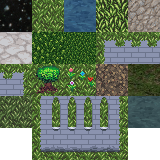
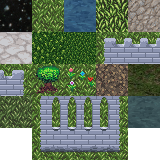
Slightly better wall thing

Changed region(s): [[0.25, 0.5938, 0.75, 0.9375], [0.625, 0.2188, 1.0, 0.4062], [0.0, 0.4062, 0.1562, 0.625]]

diff --git a/src/client/client.cpp b/src/client/client.cpp
@@ -111,11 +111,11 @@ void reset_menu_connecting(void)
     connectingDotIdxLastUpdatedAt = 0;
 }
 
-void update_camera(Camera2D &camera, Vector2 target, float frameDt)
+void update_camera(Camera2D &camera, Tilemap *map, Vector2 target, float frameDt)
 {
     camera.offset = {
-        floorf((float)GetRenderWidth()/2.0f),
-        floorf((float)GetRenderHeight()/2.0f)
+        floorf(GetRenderWidth()/2.0f),
+        floorf(GetRenderHeight()/2.0f)
     };
 
     if (!io.KeyDown(KEY_SPACE)) {
@@ -132,16 +132,32 @@ void update_camera(Camera2D &camera, Vector2 target, float frameDt)
 #endif
     }
 
+    if (map) {
+        Vector2 mapSize = { (float)map->width * TILE_W, map->height * (float)TILE_W };
+        camera.target.x = CLAMP(camera.target.x, camera.offset.x / camera.zoom, mapSize.x - camera.offset.x / camera.zoom);
+        camera.target.y = CLAMP(camera.target.y, camera.offset.y / camera.zoom, mapSize.y - camera.offset.y / camera.zoom);
+    }
+
     // Zoom based on mouse wheel
-    float wheel = GetMouseWheelMove();
+    static float zoomTarget = camera.zoom;
+    float wheel = io.MouseWheelMove();
     if (wheel != 0) {
         // Get the world point that is under the mouse
         Vector2 mouseWorldPos = GetScreenToWorld2D(GetMousePosition(), camera );
 
         // Zoom increment
-        const float zoomIncrement = 0.125f;
-        camera.zoom += (wheel * zoomIncrement * camera.zoom);
-        if (camera.zoom < zoomIncrement) camera.zoom = zoomIncrement;
+        const float zoomIncrement = 0.1f;
+        zoomTarget += (wheel * zoomIncrement * zoomTarget);
+        zoomTarget = MAX(zoomIncrement, zoomTarget);
+    }
+    if (fabsf(camera.zoom - zoomTarget) > 0.001f) {
+        const float halfLife = 8.0f;
+        float alpha = 1.0f - exp2f(-halfLife * frameDt);
+        camera.zoom = LERP(camera.zoom, zoomTarget, alpha);
+    }
+
+    if (io.MouseButtonPressed(MOUSE_BUTTON_MIDDLE)) {
+        zoomTarget = 2;
     }
 }
 
@@ -484,7 +500,7 @@ int main(int argc, char *argv[])
         histoInput.Push(histoEntry);
         histoDx.Push(histoEntry);
         histoEntry.value = client->frameDt * 1000.0f;
-        histoEntry.color = doNetTick ? GREEN : RAYWHITE;
+        histoEntry.color = doNetTick ? DARKPURPLE : RAYWHITE;
         histoFps.Push(histoEntry);
 
         if (client->yj_client->IsConnected()) {
@@ -493,7 +509,8 @@ int main(int argc, char *argv[])
                 // Update world
                 client->world->Update(*client);
                 // Update camera
-                update_camera(client->world->camera2d, localPlayer->position, client->frameDt);
+                update_camera(client->world->camera2d, client->world->LocalPlayerMap(),
+                    localPlayer->position, client->frameDt);
             }
         }
 

diff --git a/src/common/tilemap.cpp b/src/common/tilemap.cpp
@@ -618,14 +618,8 @@ void Tilemap::DrawTile(Tile tile, Vector2 position)
 {
     const Texture tex = rnTextureCatalog.GetTexture(textureId);
     const Rectangle texRect = TileDefRect(tile);
-    if (
-        fabsf(position.x - floorf(position.x)) > 0.1 ||
-        fabsf(position.y - floorf(position.y)) > 0.1)
-    {
-        printf("");
-    }
-    position.x = roundf(position.x);
-    position.y = roundf(position.y);
+    position.x = floorf(position.x);
+    position.y = floorf(position.y);
     DrawTextureRec(tex, texRect, position, WHITE);
 }
 void Tilemap::Draw(Camera2D &camera)

diff --git a/src/server/server.cpp b/src/server/server.cpp
@@ -231,7 +231,7 @@ Err Play(GameServer &server)
 
         Histogram::Entry histoEntry{ server.frame, server.now };
         histoEntry.value = server.frameDt * 1000.0f;
-        histoEntry.color = doNetTick ? GREEN : RAYWHITE;
+        histoEntry.color = doNetTick ? DARKPURPLE : RAYWHITE;
         histoFps.Push(histoEntry);
 
         while (server.tickAccum >= SV_TICK_DT) {

diff --git a/src/server/game_server.cpp b/src/server/game_server.cpp
@@ -58,7 +58,7 @@ void GameServer::OnClientJoin(int clientIdx)
 
         entity.type = Entity_Player;
         entity.mapId = maps[0]->id;
-        entity.position = {}; // 1650, 435 };
+        entity.position = { 1650, 435 };
         collision.radius = 10;
         life.maxHealth = 100;
         life.health = life.maxHealth;
